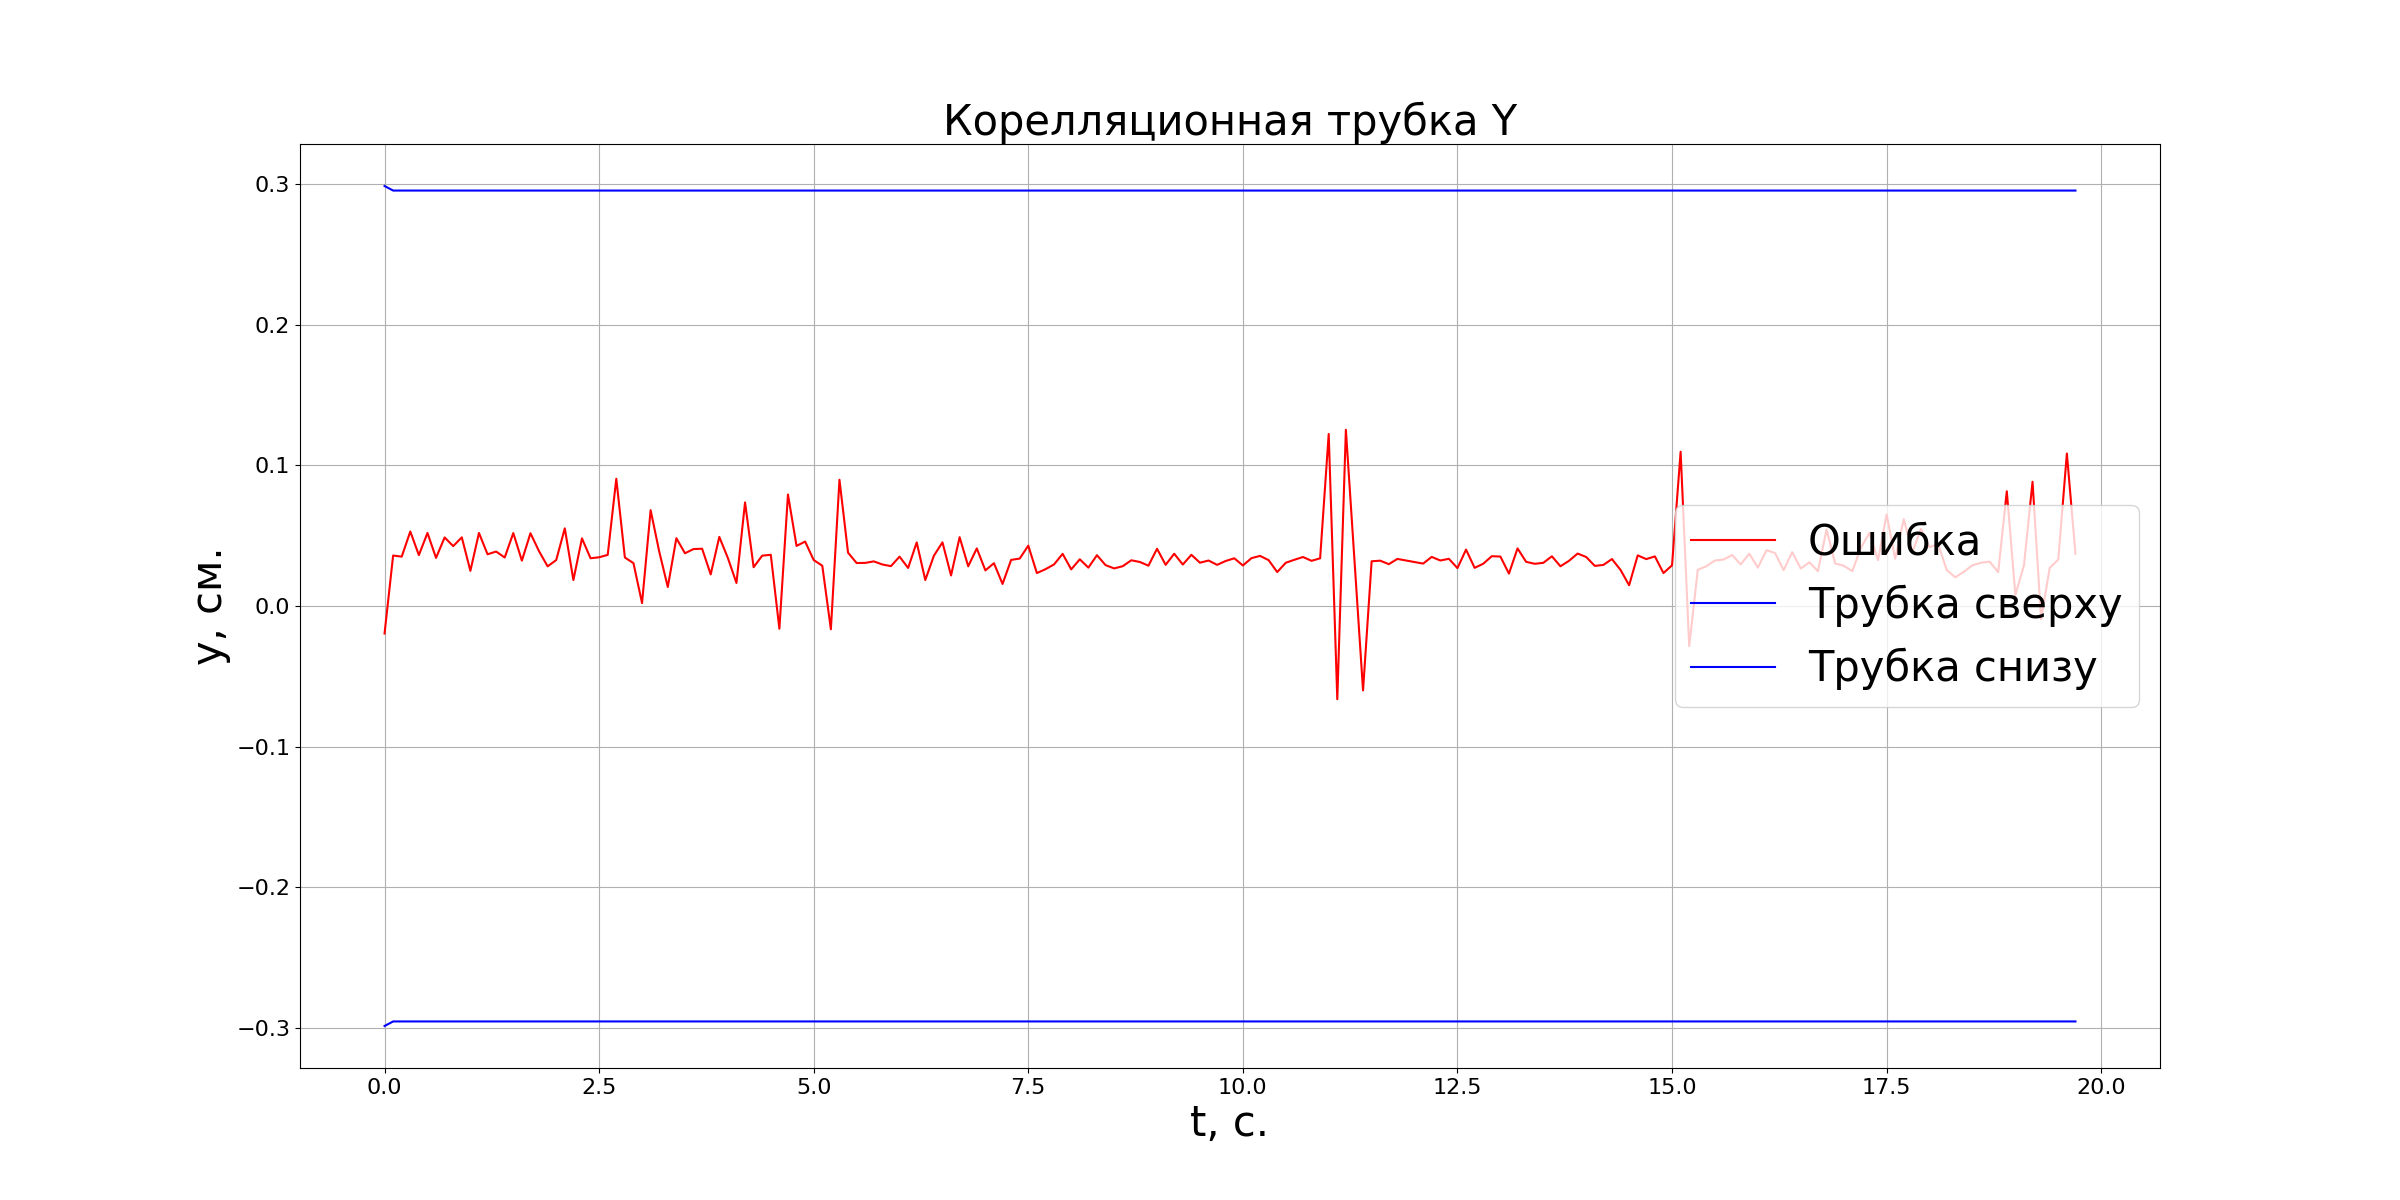
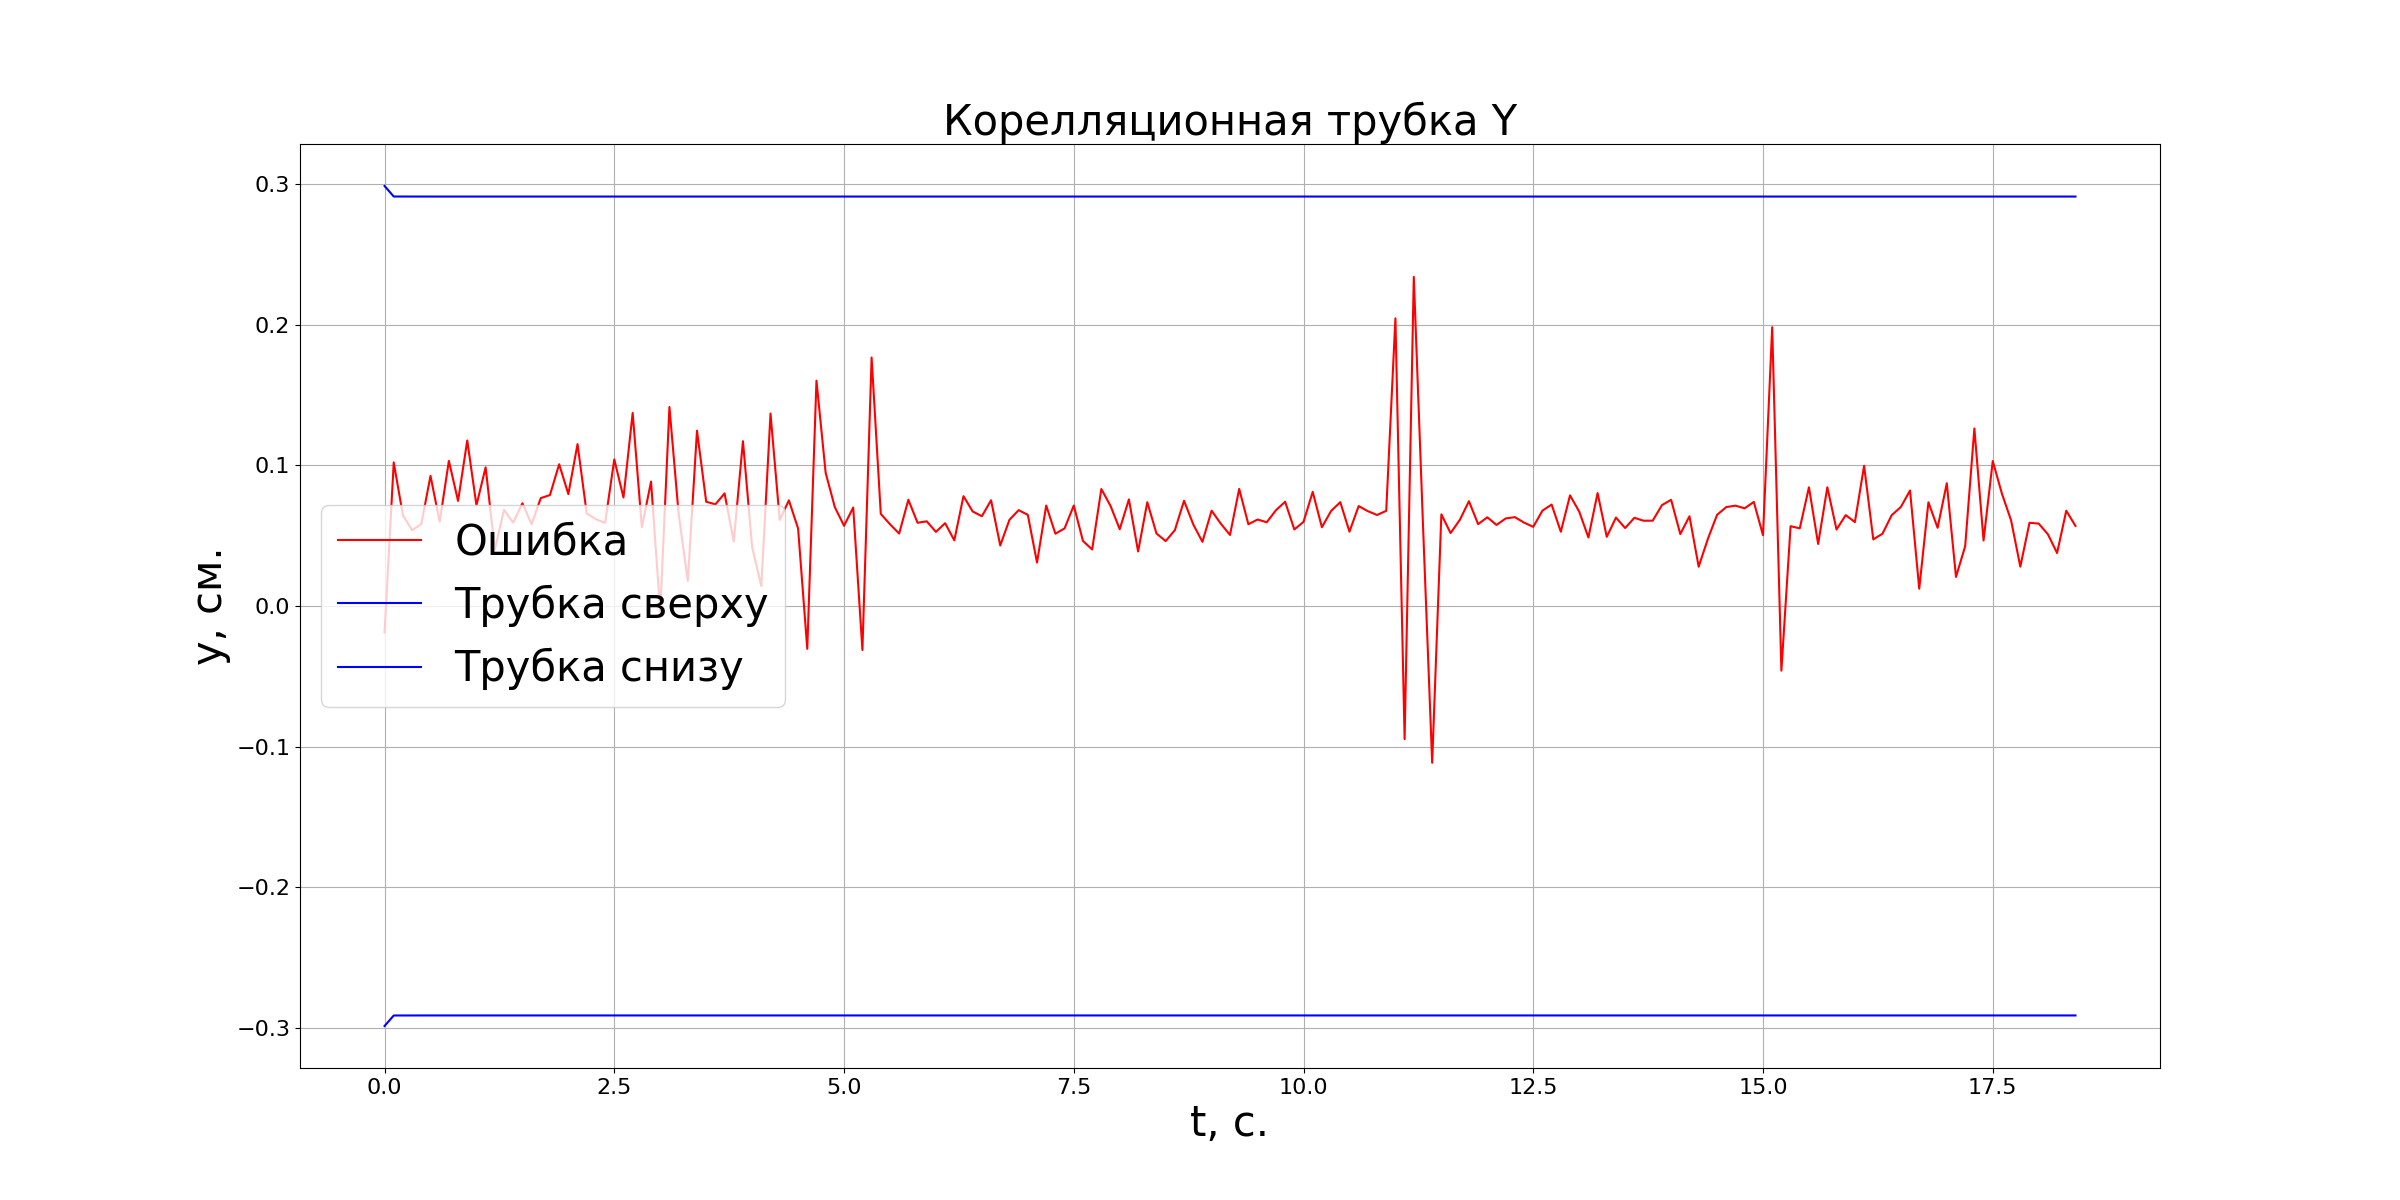
Update logic

diff --git a/Model.py b/Model.py
@@ -18,7 +18,7 @@ class Model:
         Мера измерения - 1 см - 1 пиксель\n
         Дальномер не имеет ограничений на измерения (2 дальномера)
     """
-    def __init__(self,x0,y0,scene:QGraphicsScene,room: Room,door:Door,walls:List[Wall]):
+    def __init__(self,x0,y0,scene:QGraphicsScene,room: Room,door:Door):
         self.__item=scene.addEllipse(x0-10,y0-10,20,20,QPen(QColor(100,100,100)),QBrush(QColor(255,50,50)))
         self.__scene=scene
         self.__initX=x0
@@ -27,7 +27,7 @@ class Model:
         self.__y=y0
         self.__wz=0
         self.__door=door
-        self.__walls=walls
+        self.__walls=None
         self.__room=room
         self.__qr=None
 
@@ -88,6 +88,9 @@ class Model:
         
     def AddQrCode(self,qrCode:List[QrCode]):
         self.__qr=qrCode
+
+    def AddWalls(self,walls:List[Wall]):
+        self.__walls=walls
 
     
 
@@ -184,36 +187,38 @@ class Model:
             #решающее правило для дальномеров
             alphaR=tan(self.__wz)
             bR=self.__y-alphaR*self.__x
-            for wall in self.__walls:
+
+            if self.__walls!=None:
+                for wall in self.__walls:
                 #дальномер, который спереди
-                x,y=wall.getWallCoordinate(self.__wz,b)
-                if (x==-1) and (y==-1): continue
+                    x,y=wall.getWallCoordinate(self.__wz,b)
+                    if (x==-1) and (y==-1): continue
 
-                if alpha90>0:
-                    if (y<(alpha90*x+b_90)):
-                        d=((x-self.__x)**2+(y-self.__y)**2)**0.5
-                        rangefinder1.append(d)
-                elif alpha90<=0:
-                    if (y>(alpha90*x+b_90)):
-                        d=((x-self.__x)**2+(y-self.__y)**2)**0.5
-                        rangefinder1.append(d)
+                    if alpha90>0:
+                        if (y<(alpha90*x+b_90)):
+                            d=((x-self.__x)**2+(y-self.__y)**2)**0.5
+                            rangefinder1.append(d)
+                    elif alpha90<=0:
+                        if (y>(alpha90*x+b_90)):
+                            d=((x-self.__x)**2+(y-self.__y)**2)**0.5
+                            rangefinder1.append(d)
             
-            for wall in self.__walls:
+                for wall in self.__walls:
                 #дальномер, который сбоку
-                x,y=wall.getWallCoordinate(alpha90,b_90)
-                if (x==-1) and (y==-1): continue       
-                if ((alphaR*x+bR)>=y):
-                    d=((x-self.__x)**2+(y-self.__y)**2)**0.5
-                    rangefinder2.append(d)
+                    x,y=wall.getWallCoordinate(alpha90,b_90)
+                    if (x==-1) and (y==-1): continue       
+                    if ((alphaR*x+bR)>=y):
+                        d=((x-self.__x)**2+(y-self.__y)**2)**0.5
+                        rangefinder2.append(d)
 
             
-            for wall in self.__walls:
+                for wall in self.__walls:
                 #дальномер, который сбоку
-                x,y=wall.getWallCoordinate(alpha_90,b_minus90)
-                if (x==-1) and (y==-1): continue
-                if ((alphaR*x+bR)<y):
-                    d=((x-self.__x)**2+(y-self.__y)**2)**0.5
-                    rangefinder3.append(d)
+                    x,y=wall.getWallCoordinate(alpha_90,b_minus90)
+                    if (x==-1) and (y==-1): continue
+                    if ((alphaR*x+bR)<y):
+                        d=((x-self.__x)**2+(y-self.__y)**2)**0.5
+                        rangefinder3.append(d)
 
             #главный дальномер
             room=[]
@@ -236,7 +241,7 @@ class Model:
                         rangefinder1.append(d)
                         room.append(x)
                         room.append(y)
-                        room.append(d)
+                        room.append(d)         
             resultD1=min(rangefinder1)
 
 
@@ -258,7 +263,9 @@ class Model:
                     y=xy[1]
                     d=((x-self.__x)**2+(y-self.__y)**2)**0.5
                     rangefinder3.append(d)
+            if len(rangefinder3)==0: break   
             resultD3=min(rangefinder3)
+            
 
             Detected=[]
             if self.__qr!=None:
@@ -317,7 +324,7 @@ class Model:
             self.__cT+=newDt
             if t0>=10000: break
 
-            if abs(((position[1]-self.__y)**2+(position[0]-self.__x)**2)**0.5)<=20:
+            if abs(((position[1]-self.__y)**2+(position[0]-self.__x)**2)**0.5)<=30:
                 break
 
 
@@ -340,8 +347,8 @@ class Model:
 
     
         De=np.asarray([
-            [0.3,0,0,0,0,0,0,0,0],
-            [0,0.3,0,0,0,0,0,0,0],
+            [0.15,0,0,0,0,0,0,0,0],
+            [0,0.15,0,0,0,0,0,0,0],
             [0,0,(0.5*np.pi*dt)**2,0,0,0,0,0,0],
             [0,0,0,(15*dt)**2,0,0,0,0,0],
             [0,0,0,0,(15*dt)**2,0,0,0,0],

diff --git a/Main.py b/Main.py
@@ -47,8 +47,9 @@ QrCode7=QrCode(400,400-50,-np.pi*0.5,scene)
 QrCode8=QrCode(400-50,400,-np.pi,scene)
 
 qrList=[QrCode1,QrCode2,QrCode3,QrCode4,QrCode5,QrCode6,QrCode7,QrCode8]
-model=Model(50,300,scene,room,door,walls)
+model=Model(50,300,scene,room,door)
 model.AddQrCode(qrList)
+model.AddWalls(walls)
 model.Simulate(0.1)
 model.FilterKalman(0.1)
 graphicsView.show()
